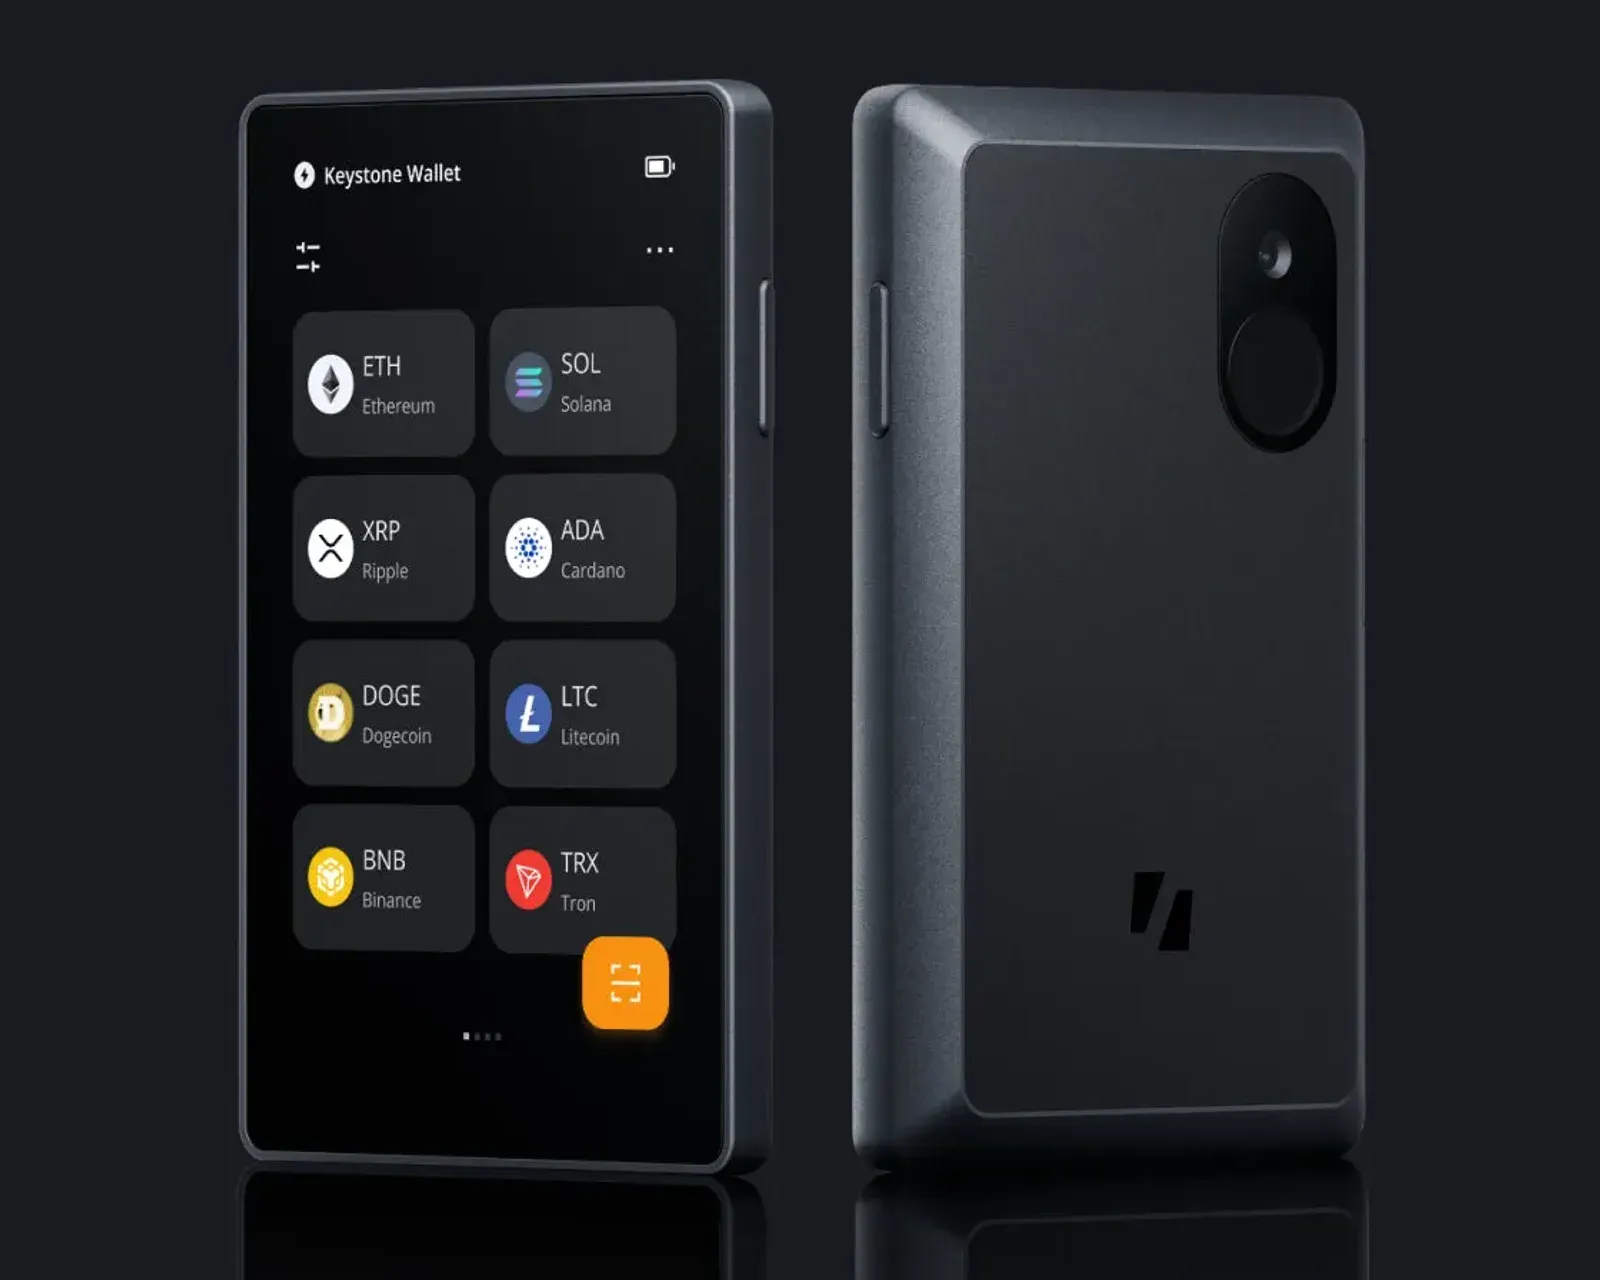
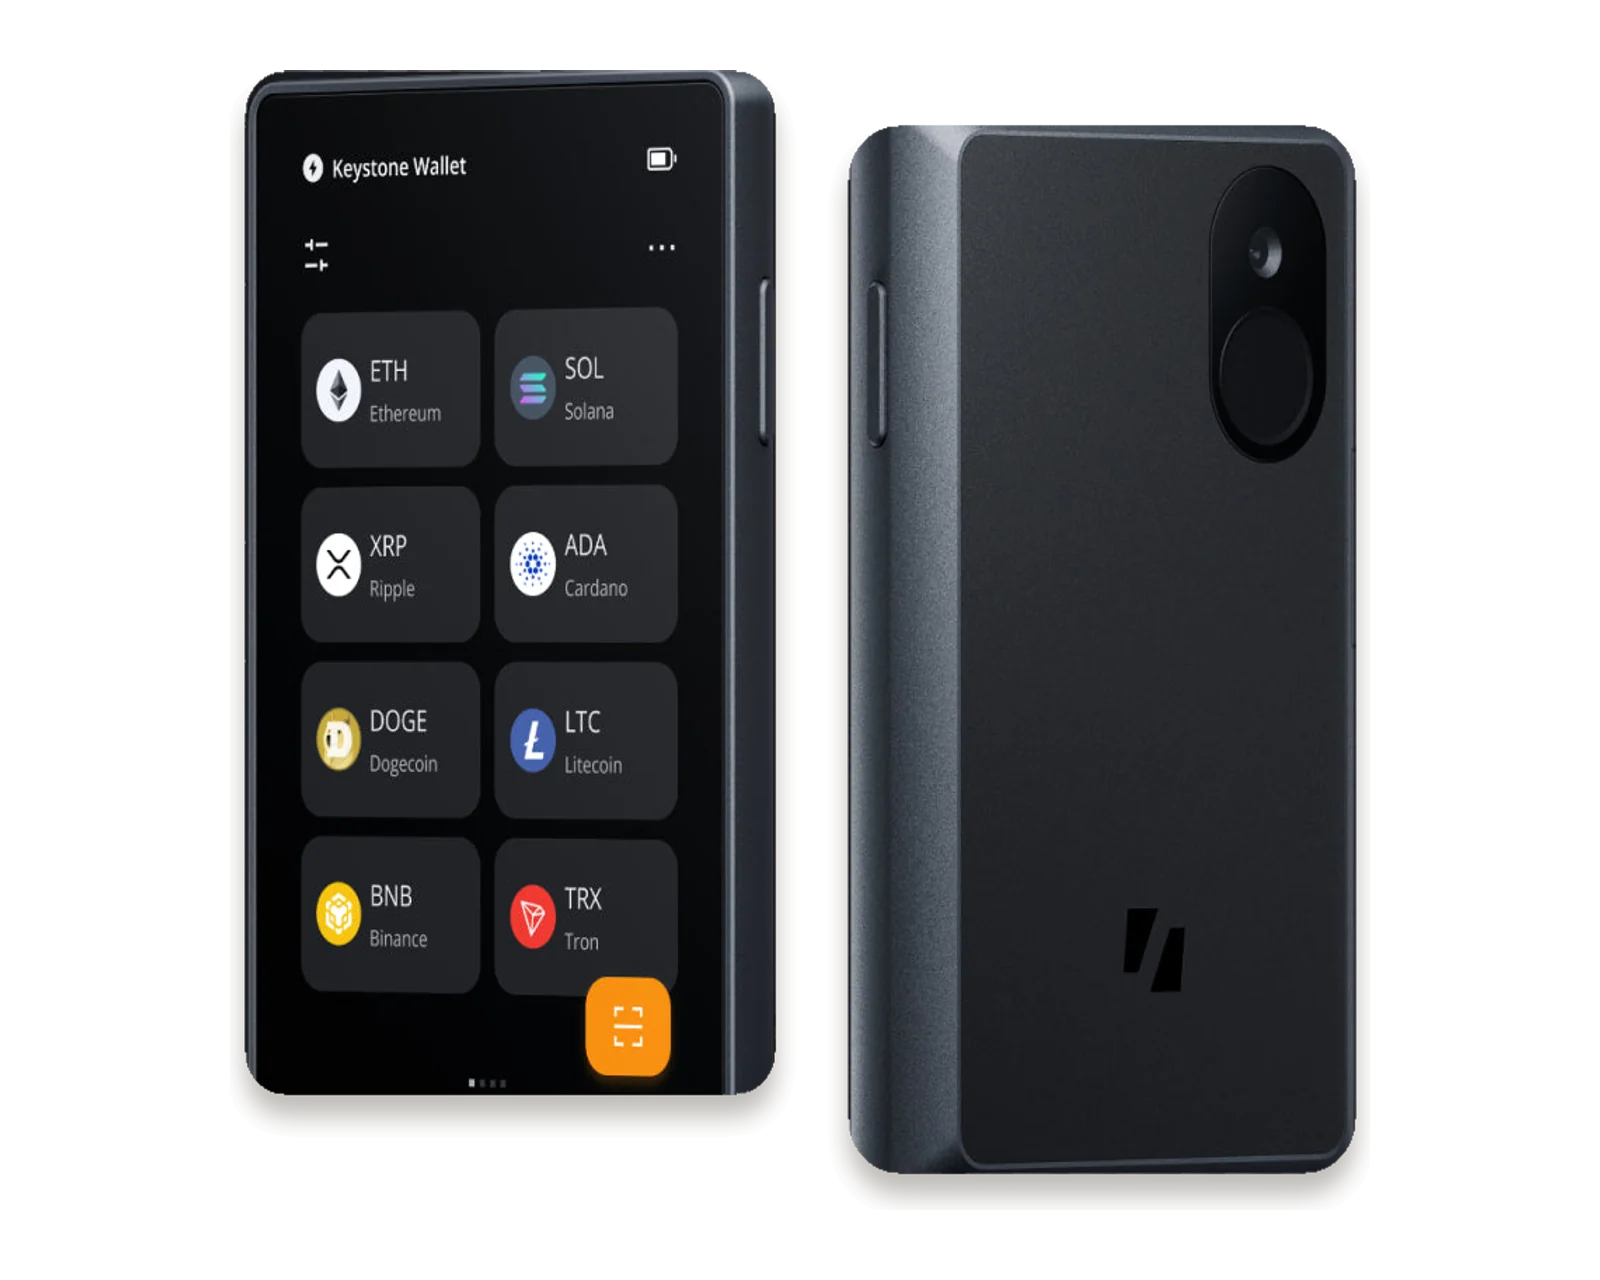
Cut the Keystone photo onto the cream card and link each coverage option.
The studio reflection under the devices is gone, the black screen stays, and Keystone and ELLIPAL rows open the matching official variant with the affiliate parameter kept.

diff --git a/lib/walletCatalog.ts b/lib/walletCatalog.ts
@@ -657,7 +657,7 @@ export const WALLET_PRODUCTS: readonly WalletProduct[] = [
     currency: "USD",
     priceStatus: "verified",
     priceSourceUrl: "https://shop.keyst.one/products/keystone-3-pro.json",
-    officialUrl: "https://shop.keyst.one/products/keystone-3-pro",
+    officialUrl: "https://shop.keyst.one/products/keystone-3-pro?variant=44416761102489",
     sortOrder: 240,
   }),
   product({
@@ -672,7 +672,7 @@ export const WALLET_PRODUCTS: readonly WalletProduct[] = [
     currency: "USD",
     priceStatus: "verified",
     priceSourceUrl: "https://shop.keyst.one/products/keystone-3-pro.json",
-    officialUrl: "https://shop.keyst.one/products/keystone-3-pro",
+    officialUrl: "https://shop.keyst.one/products/keystone-3-pro?variant=45064372453529",
     sortOrder: 241,
   }),
   product({
@@ -687,7 +687,7 @@ export const WALLET_PRODUCTS: readonly WalletProduct[] = [
     currency: "USD",
     priceStatus: "verified",
     priceSourceUrl: "https://shop.keyst.one/products/keystone-3-pro.json",
-    officialUrl: "https://shop.keyst.one/products/keystone-3-pro",
+    officialUrl: "https://shop.keyst.one/products/keystone-3-pro?variant=45064372486297",
     sortOrder: 242,
   }),
   product({
@@ -737,7 +737,7 @@ export const WALLET_PRODUCTS: readonly WalletProduct[] = [
     currency: "EUR",
     priceStatus: "verified",
     priceSourceUrl: "https://www.ellipal.com/en-eu/products/ellipal-titan.json",
-    officialUrl: "https://www.ellipal.com/en-eu/products/ellipal-titan",
+    officialUrl: "https://www.ellipal.com/en-eu/products/ellipal-titan?variant=40716752158918",
     sortOrder: 260,
   }),
   product({
@@ -838,7 +838,7 @@ export const WALLET_PRODUCTS: readonly WalletProduct[] = [
     currency: "EUR",
     priceStatus: "verified",
     priceSourceUrl: "https://www.ellipal.com/en-eu/products/ellipal-titan.json",
-    officialUrl: "https://www.ellipal.com/en-eu/products/ellipal-titan",
+    officialUrl: "https://www.ellipal.com/en-eu/products/ellipal-titan?variant=48601895895238",
     sortOrder: 340,
   }),
   product({

diff --git a/lib/walletBrands.ts b/lib/walletBrands.ts
@@ -215,7 +215,7 @@ export const WALLET_BRANDS: readonly WalletBrandProfile[] = [
     positioningRo: "Keystone 3 Pro, air-gap, cu acoperire de 1, 2 sau 3 ani.",
     positioningEn: "Keystone 3 Pro, air-gapped, with 1-, 2-, or 3-year coverage.",
     highlights: [{ ro: "Air-gap", en: "Air-gap" }],
-    tone: "dark",
+    tone: "light",
     image: {
       src: "/wallets/keystone.webp",
       width: 1600,
@@ -223,7 +223,7 @@ export const WALLET_BRANDS: readonly WalletBrandProfile[] = [
       sourceUrl: "https://cdn.shopify.com/s/files/1/0029/3175/3060/files/3_pro.jpg?v=1779695258",
       altRo: "Keystone 3 Pro, față și spate",
       altEn: "Keystone 3 Pro, front and back",
-      editNote: "Official Keystone 3 Pro photo, cropped to the shared 5:4 frame. The dark studio background stays, because the screen is black and a cutout removes the display.",
+      editNote: "Official Keystone 3 Pro photo. The devices are cut along the gap under the chassis so the studio reflection is gone, and placed on the shared cream card. The black display is the original pixels.",
     },
   },
   {
